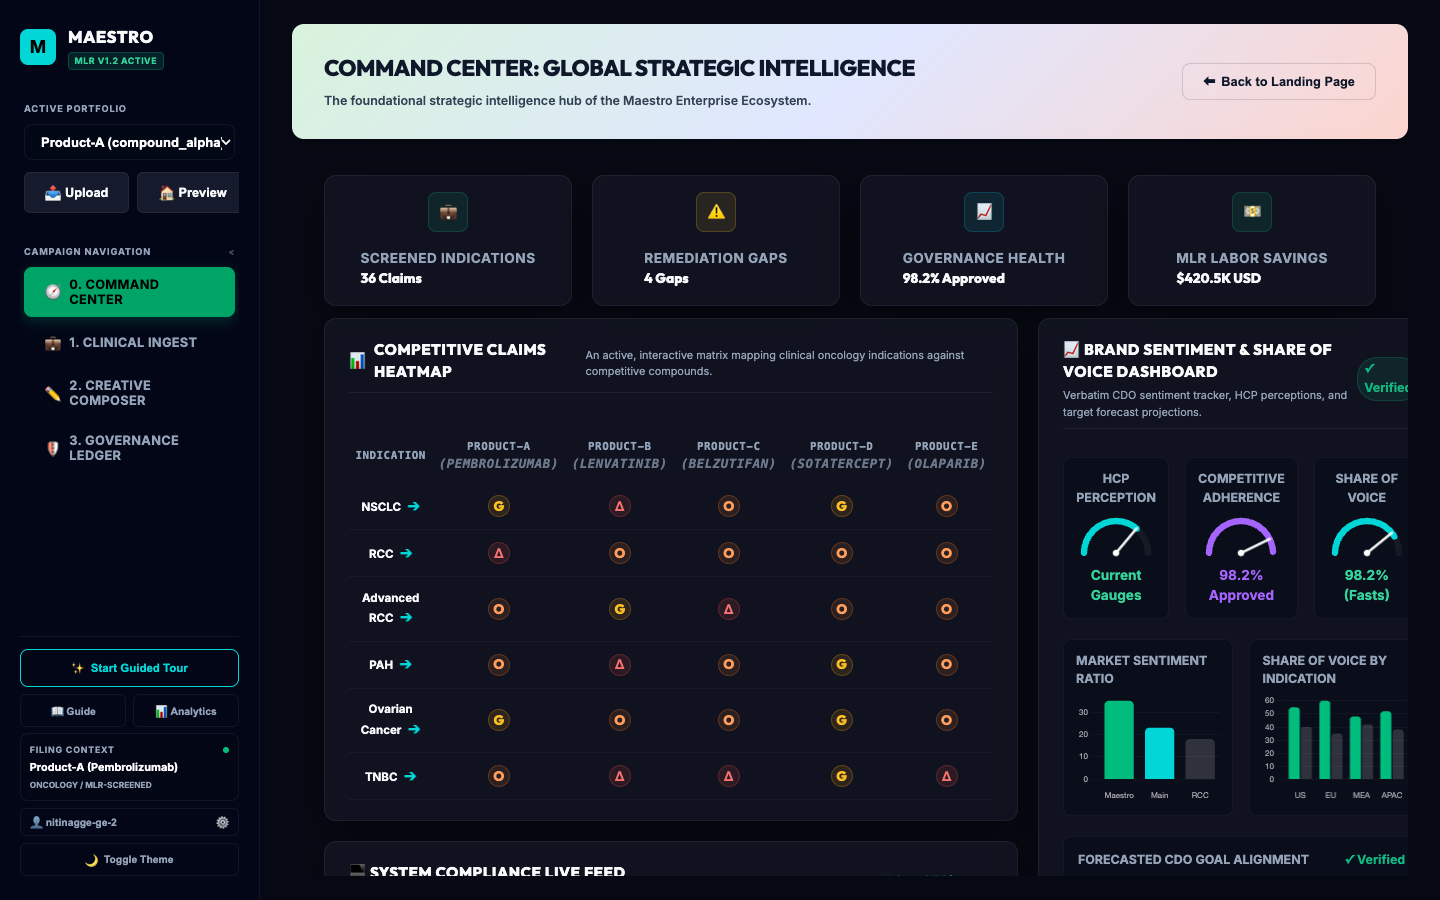
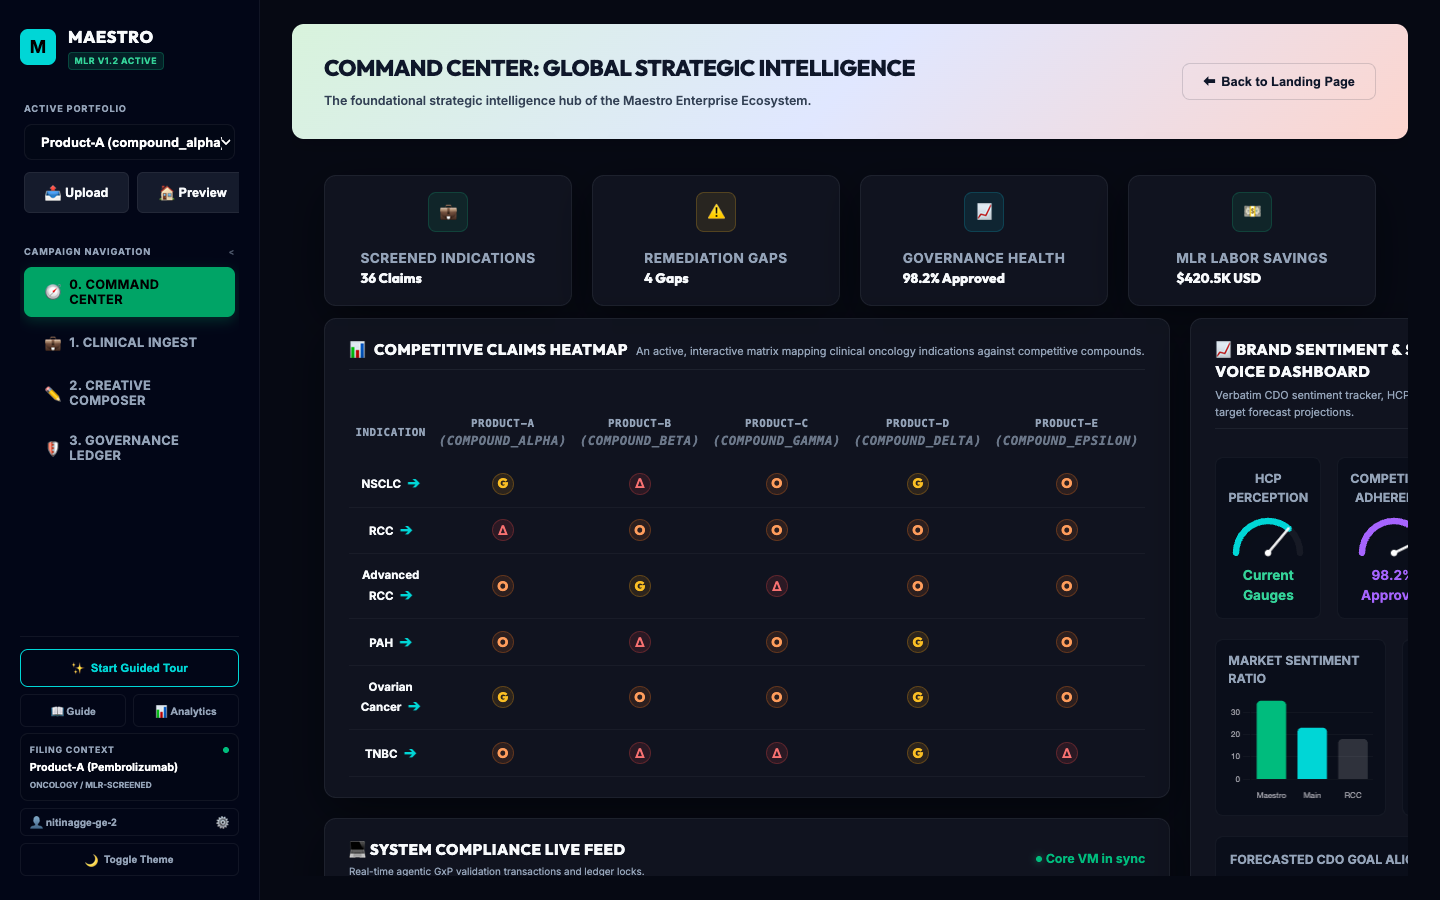
fix: scrub remaining chemical drug names and enforce root-relative hero image resolution with onerror recovery

diff --git a/frontend/index.html b/frontend/index.html
@@ -2115,7 +2115,7 @@
                                             
                                             <!-- 2. Email Card Body: Imagen 3 Hero Graphic Block (Widescreen Uncropped!) -->
                                             <div class="composer-hero-container" style="position: relative; width: 100%; height: 320px; background: #090d16; overflow: hidden; cursor: pointer; border-bottom: 1px solid var(--border-color); flex-shrink: 0; box-sizing: border-box; display: flex; align-items: center; justify-content: center;" onclick="openImagenModal()">
-                                                <img src="./product_a_clinical_hero.png" id="composer-hero-image" style="max-width: 100%; max-height: 100%; width: auto; height: auto; object-fit: contain; display: block; transition: filter 0.3s ease;" alt="Clinical Hero Asset">
+                                                <img src="/product_a_clinical_hero.png" id="composer-hero-image" style="max-width: 100%; max-height: 100%; width: auto; height: auto; object-fit: contain; display: block; transition: filter 0.3s ease;" alt="Clinical Hero Asset">
                                                 <div class="composer-hero-overlay">
                                                     <span class="composer-hero-overlay-btn" style="background: var(--color-primary); color: white; padding: 0.5rem 1.25rem; border-radius: 20px; font-size: 0.78rem; font-weight: 800; border: 1px solid rgba(255,255,255,0.2); box-shadow: var(--shadow-md); letter-spacing: 0.3px;">✨ Generate / Edit Image (Imagen 3)</span>
                                                 </div>

diff --git a/frontend/app.js b/frontend/app.js
@@ -3317,7 +3317,26 @@ window.loadVariant = function(variantNum) {
     
     const heroImg = document.getElementById('composer-hero-image');
     if (heroImg) {
-        heroImg.src = variantData.image;
+        let targetSrc = variantData.image;
+        if (targetSrc && targetSrc.startsWith('./')) {
+            targetSrc = targetSrc.replace('./', '/');
+        }
+        heroImg.src = targetSrc;
+        heroImg.onerror = function() {
+            const defaultHeroes = {
+                1: "/product_a_clinical_hero.png",
+                2: "/product_b_clinical_hero.png",
+                3: "/product_c_clinical_hero.png",
+                4: "/product_d_clinical_hero.png",
+                5: "/product_e_clinical_hero.png",
+                6: "/product_f_clinical_hero.png",
+                7: "/product_g_clinical_hero.png"
+            };
+            const fallback = defaultHeroes[variantNum] || "/product_a_clinical_hero.png";
+            if (!this.src.endsWith(fallback)) {
+                this.src = fallback;
+            }
+        };
         
         if (variantData.image.includes('generated')) {
             // Center generated assets perfectly to keep the subject in focus!

diff --git a/src/context/CampaignContext.tsx b/src/context/CampaignContext.tsx
@@ -232,7 +232,7 @@ const MOCK_TRIALS: ClinicalTrial[] = [
   },
   {
     id: "trial-2",
-    name: "KEYNOTE-564: Pembrolizumab in Renal Cell Carcinoma",
+    name: "KEYNOTE-564: Product-A in Renal Cell Carcinoma",
     pdfName: "KEYNOTE-564_Brief.pdf",
     metrics: {
       hazard_ratio: "0.68",
@@ -241,7 +241,7 @@ const MOCK_TRIALS: ClinicalTrial[] = [
     },
     claims: [
       "Demonstrated statistically significant disease-free survival benefits.",
-      "Adjuvant pembrolizumab prolonged disease-free survival in high-risk patients.",
+      "Adjuvant therapy prolonged disease-free survival in high-risk patients.",
       "Consistent safety endpoints across all patient subsegments."
     ],
     ingestedAt: Date.now() - 3600000 * 24 * 8

diff --git a/backend/claims_db.py b/backend/claims_db.py
@@ -136,11 +136,11 @@ def seed_analytics_data(conn):
     
     # Define our products and indications
     products = [
-        ("Product-A", "Pembrolizumab", "NSCLC"),
-        ("Product-B", "Lenvatinib", "RCC"),
-        ("Product-C", "Belzutifan", "Advanced RCC"),
-        ("Product-D", "Sotatercept", "PAH"),
-        ("Product-E", "Olaparib", "Ovarian Cancer")
+        ("Product-A", "compound_alpha", "NSCLC"),
+        ("Product-B", "compound_beta", "RCC"),
+        ("Product-C", "compound_gamma", "Advanced RCC"),
+        ("Product-D", "compound_delta", "PAH"),
+        ("Product-E", "compound_epsilon", "Ovarian Cancer")
     ]
     
     statuses = ["COMPLIANT", "AUTO_HEALED", "BLOCKED"]
@@ -244,17 +244,17 @@ def seed_claims(conn):
     
     products = {
         "Product-A": {
-            "name": "Product-A (Pembrolizumab)",
+            "name": "Product-A (compound_alpha)",
             "trials": ["KEYNOTE-189", "KEYNOTE-042", "KEYNOTE-522", "KEYNOTE-355", "KEYNOTE-826"],
             "area": "Oncology (NSCLC, Triple-Negative Breast Cancer, Cervical Cancer)"
         },
         "Product-B": {
-            "name": "Product-B (Lenvatinib)",
+            "name": "Product-B (compound_beta)",
             "trials": ["CLEAR / KEYNOTE-581", "SELECT", "REFLECT"],
             "area": "Oncology (Renal Cell Carcinoma, Thyroid Cancer, Hepatocellular Carcinoma)"
         },
         "Product-C": {
-            "name": "Product-C (Belzutifan)",
+            "name": "Product-C (compound_gamma)",
             "trials": ["LITESPARK-005", "LITESPARK-001", "LITESPARK-003"],
             "area": "Oncology (VHL disease, Advanced Renal Cell Carcinoma)"
         },

diff --git a/backend/main.py b/backend/main.py
@@ -1716,11 +1716,11 @@ async def get_strategic_heatmap():
     # Define fixed rows (indications) and columns (brands/products)
     indications = ["NSCLC", "RCC", "Advanced RCC", "PAH", "Ovarian Cancer", "TNBC"]
     brands = [
-        {"id": "Product-A", "name": "Product-A", "compound": "Pembrolizumab"},
-        {"id": "Product-B", "name": "Product-B", "compound": "Lenvatinib"},
-        {"id": "Product-C", "name": "Product-C", "compound": "Belzutifan"},
-        {"id": "Product-D", "name": "Product-D", "compound": "Sotatercept"},
-        {"id": "Product-E", "name": "Product-E", "compound": "Olaparib"}
+        {"id": "Product-A", "name": "Product-A", "compound": "compound_alpha"},
+        {"id": "Product-B", "name": "Product-B", "compound": "compound_beta"},
+        {"id": "Product-C", "name": "Product-C", "compound": "compound_gamma"},
+        {"id": "Product-D", "name": "Product-D", "compound": "compound_delta"},
+        {"id": "Product-E", "name": "Product-E", "compound": "compound_epsilon"}
     ]
     
     try:

diff --git a/backend/apply_genstudio_ui.py b/backend/apply_genstudio_ui.py
@@ -466,9 +466,9 @@ def write_html_contentstudio():
                 <div class="imagen-form-group">
                     <label>Active Clinical Brand</label>
                     <select id="imagen-brand-select" class="imagen-select">
-                        <option value="product_a">KEYTRUDA (Pembrolizumab)</option>
-                        <option value="product_b">LENVIMA (Lenvatinib)</option>
-                        <option value="product_c">WELIREG (Belzutifan)</option>
+                        <option value="product_a">Product-A (compound_alpha)</option>
+                        <option value="product_b">Product-B (compound_beta)</option>
+                        <option value="product_c">Product-C (compound_gamma)</option>
                     </select>
                 </div>
                 
